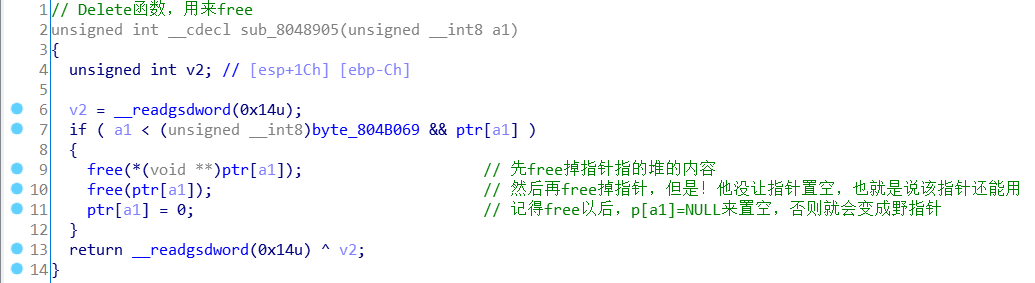
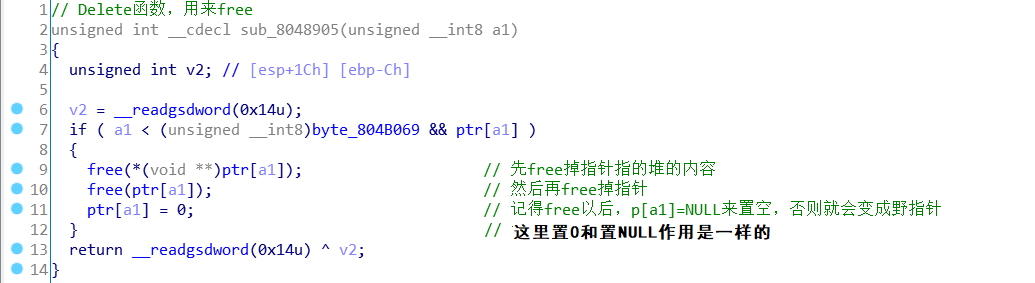
Site updated: 2020-10-20 09:07:19

Changed region(s): [[0.6493, 0.6219, 0.9894, 0.7067], [0.4638, 0.7915, 0.742, 0.8481]]

diff --git a/2020/10/04/babyfengshui/index.html b/2020/10/04/babyfengshui/index.html
@@ -21,13 +21,14 @@
 <meta property="og:image" content="http:&#x2F;&#x2F;yoursite.com&#x2F;2020&#x2F;10&#x2F;04&#x2F;babyfengshui&#x2F;b2.png">
 <meta property="og:image" content="http:&#x2F;&#x2F;yoursite.com&#x2F;2020&#x2F;10&#x2F;04&#x2F;babyfengshui&#x2F;c.png">
 <meta property="og:image" content="http:&#x2F;&#x2F;yoursite.com&#x2F;2020&#x2F;10&#x2F;04&#x2F;babyfengshui&#x2F;c2.png">
+<meta property="og:image" content="http:&#x2F;&#x2F;yoursite.com&#x2F;2020&#x2F;10&#x2F;04&#x2F;babyfengshui&#x2F;c22.png">
 <meta property="og:image" content="http:&#x2F;&#x2F;yoursite.com&#x2F;2020&#x2F;10&#x2F;04&#x2F;babyfengshui&#x2F;c3.png">
 <meta property="og:image" content="http:&#x2F;&#x2F;yoursite.com&#x2F;2020&#x2F;10&#x2F;04&#x2F;babyfengshui&#x2F;c4.png">
 <meta property="og:image" content="http:&#x2F;&#x2F;yoursite.com&#x2F;2020&#x2F;10&#x2F;04&#x2F;babyfengshui&#x2F;d.png">
 <meta property="og:image" content="http:&#x2F;&#x2F;yoursite.com&#x2F;2020&#x2F;10&#x2F;04&#x2F;babyfengshui&#x2F;d2.png">
 <meta property="og:image" content="http:&#x2F;&#x2F;yoursite.com&#x2F;2020&#x2F;10&#x2F;04&#x2F;babyfengshui&#x2F;d3.png">
 <meta property="og:image" content="http:&#x2F;&#x2F;yoursite.com&#x2F;2020&#x2F;10&#x2F;04&#x2F;babyfengshui&#x2F;d4.png">
-<meta property="og:updated_time" content="2020-10-04T03:24:49.421Z">
+<meta property="og:updated_time" content="2020-10-20T01:03:42.691Z">
 <meta name="twitter:card" content="summary">
 <meta name="twitter:image" content="http:&#x2F;&#x2F;yoursite.com&#x2F;2020&#x2F;10&#x2F;04&#x2F;babyfengshui&#x2F;a.png">
   
@@ -211,7 +212,7 @@
 </a>
         
       </header>
-<div align="center" class="post-count">字数：1.5k字 | 预计阅读时长：6分钟</div>
+<div align="center" class="post-count">字数：1.6k字 | 预计阅读时长：6分钟</div>
     
     <div class="article-entry" itemprop="articleBody">
       
@@ -227,7 +228,7 @@
 <p>运行一下，发现是个菜单题，可以执行添加新用户、删除、更改等操作。<br><img src="b2.png" alt="运行图"><br>32位IDA打开看看，没有“/bin/sh”，可能要自己写入。</p>
 <a id="more"></a>
 <p>先看几个关键函数。这个添加新用户的函数，每次调用会创建两个堆，先malloc一个大小为a1的堆，然后malloc一个固定0x80的堆，大小为a1的堆用于存储description，姑且就把这个存储description的堆叫做Desc。而固定0x80的这个堆，暂且叫Note堆，他的前4位 (因为是32位程序，如果是64位程序，那么存储的地址就是8位) 存储的是Desc堆的地址，而后 0x80-0x4 即124位都存储的name的值。<br><img src="c.png" alt="add函数"></p>
-<p>然后看看delete函数，发现个小漏洞，不过之后用不到这些指针，但是自己写程序的时候记得要注意<br><img src="c2.png" alt="del函数"></p>
+<p>然后看看delete函数，程序在free指针指向的空间后把指针置NULL了，没发现什么漏洞<br><img src="c2.png" alt="del函数"><br>在stdio.h头文件里，有一句&quot;define NULL 0&quot;，所以这里置0相当于置NULL了<br><img src="c22.png" alt=""></p>
 <p>display函数，用于输出已有的用户姓名及描述<br><img src="c3.png" alt="display函数"></p>
 <p>update函数，更改用户数据。里面有一句关键的判断，第14句判断 “(Desc堆地址+数据长度length)不能大于等于(Note地址-  4)”，但是这句判断仅适用于堆块相邻的情况下。<br><img src="c4.png" alt="update函数"></p>
 <h2 id="思路："><a href="#思路：" class="headerlink" title="思路："></a>思路：</h2><ol>

diff --git a/index.html b/index.html
@@ -276,7 +276,7 @@
 </a>
         
       </header>
-<div align="center" class="post-count">字数：1.5k字 | 预计阅读时长：6分钟</div>
+<div align="center" class="post-count">字数：1.6k字 | 预计阅读时长：6分钟</div>
     
     <div class="article-entry" itemprop="articleBody">
       
